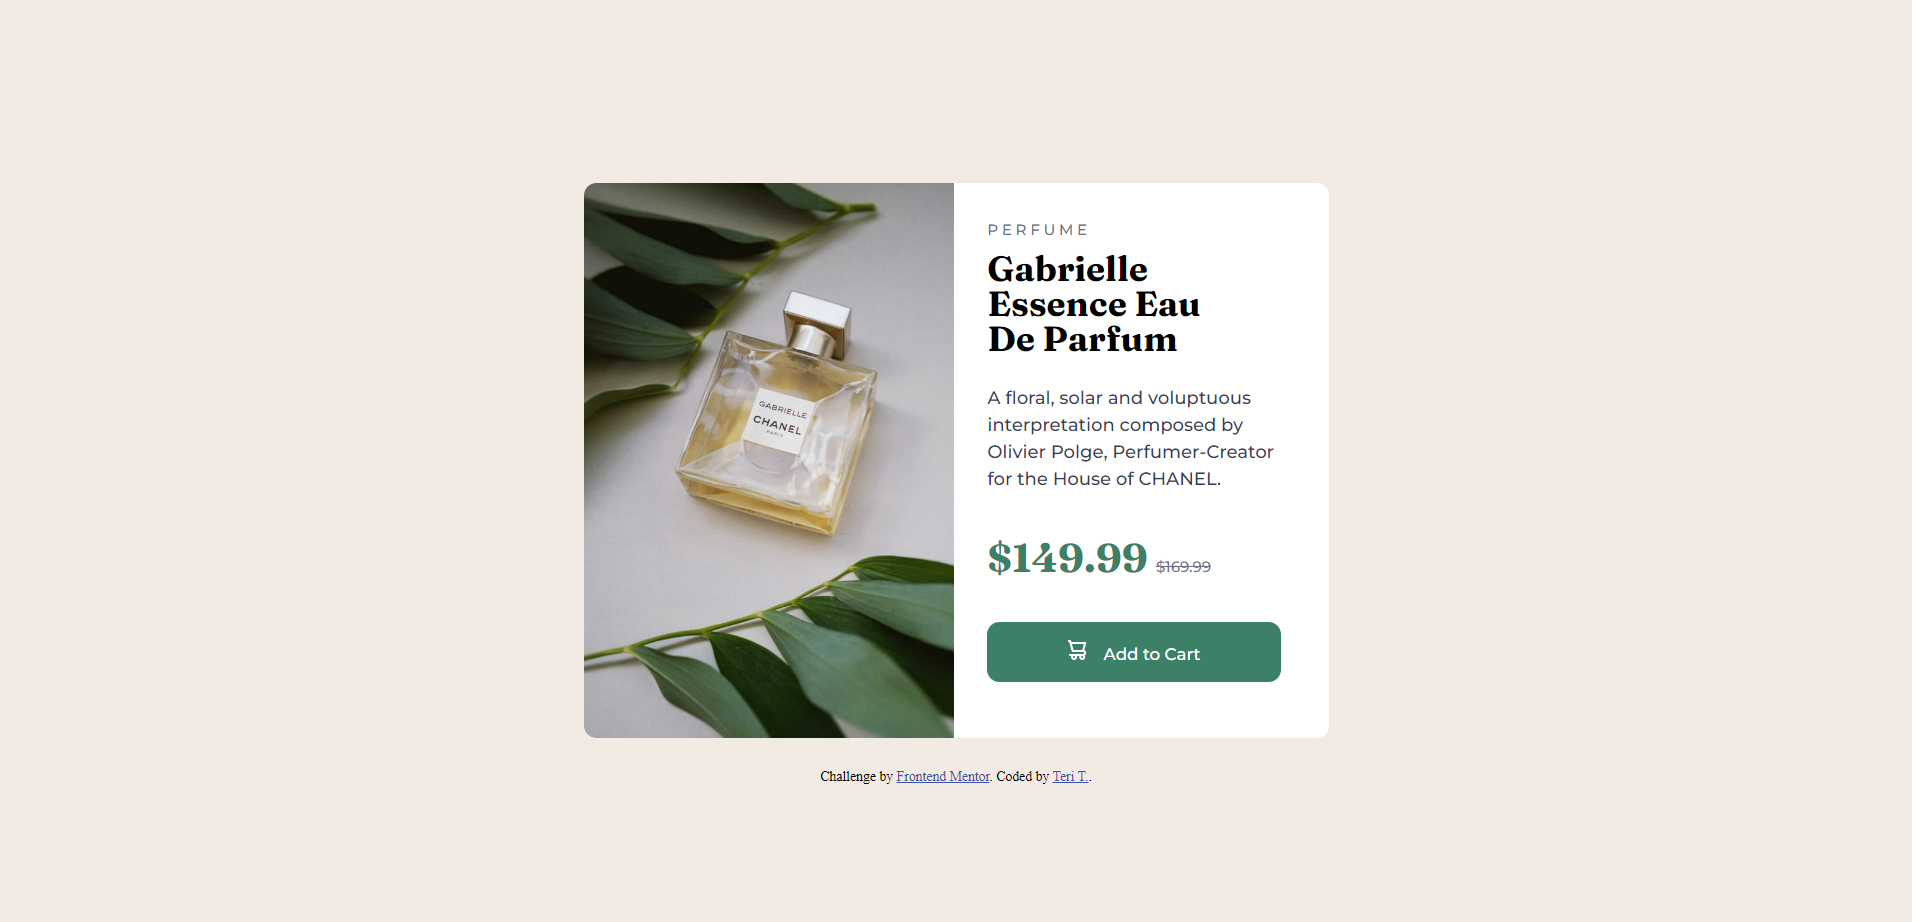
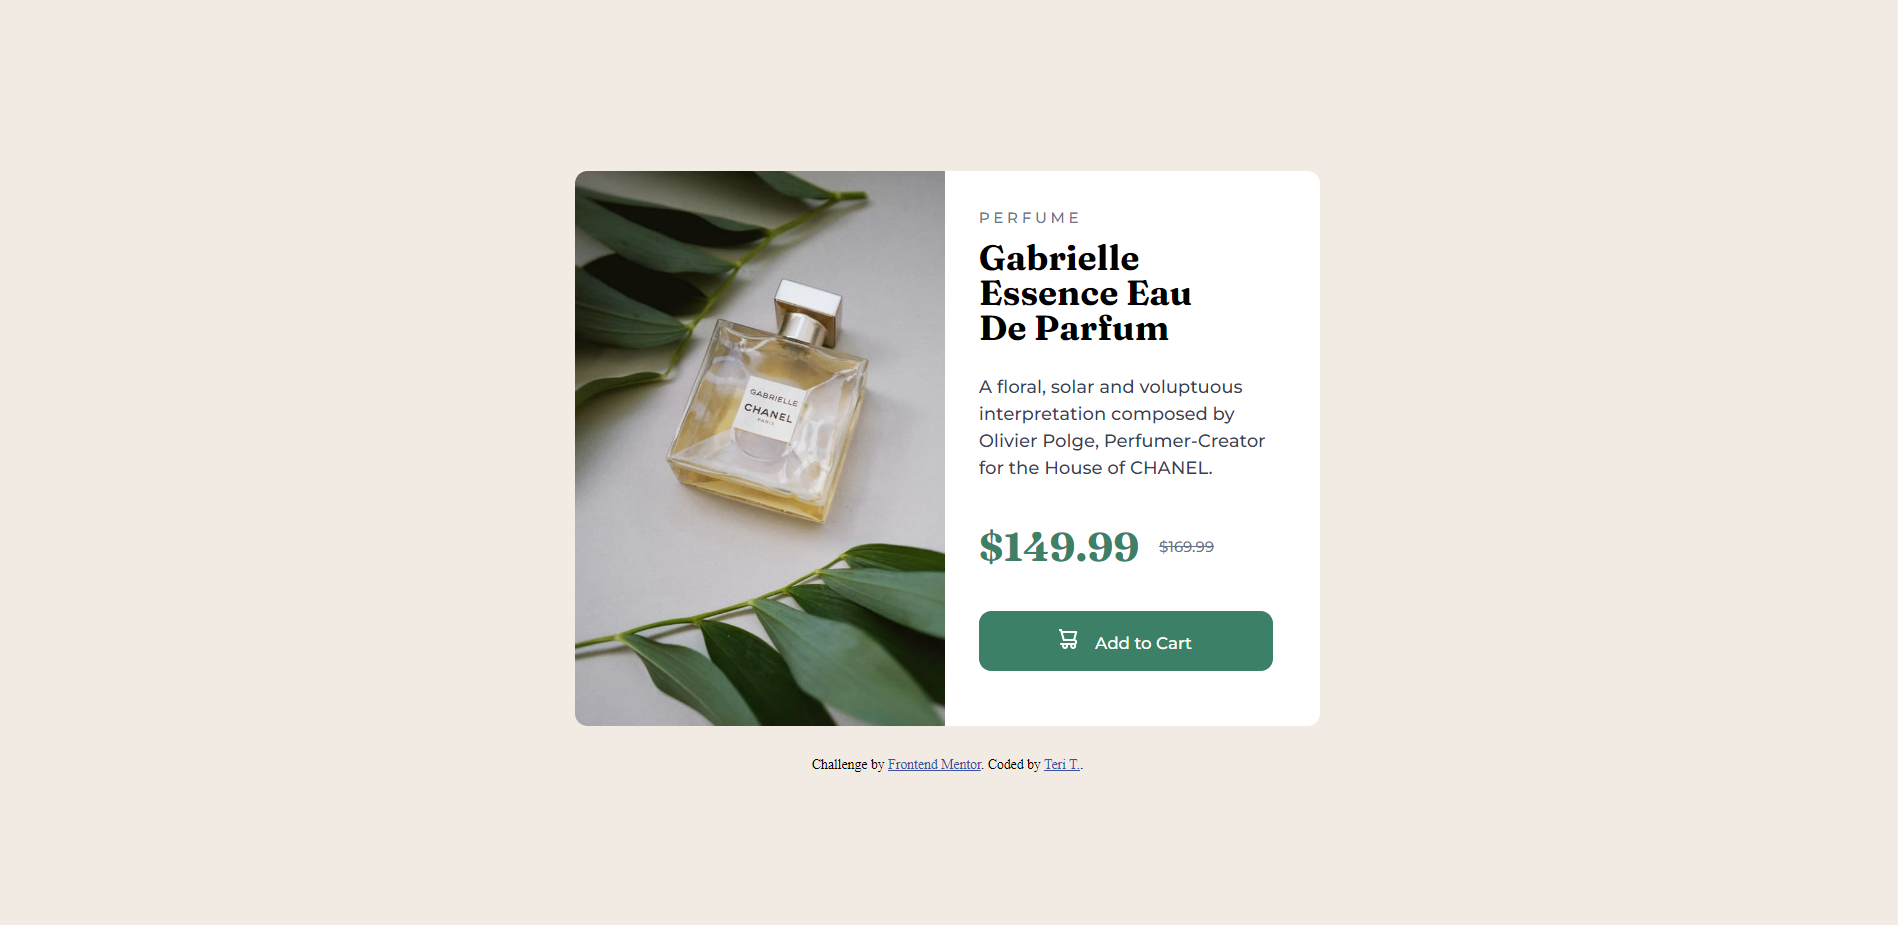
replace screenshot and update stylesheet

Changed region(s): [[0.2798, 0.1822, 0.715, 0.8503]]

diff --git a/style.css b/style.css
@@ -9,16 +9,17 @@
 
 body {
     background-color: hsl(30, 38%, 92%);
+    min-height: 100vh;
+    display: grid;
+    place-items: center;
 
 }
 
 .container {
-    margin: auto;
     display: flex;
     column-count: 2;
     width: 596px;
     background-color: white;
-    margin-top: 150px;
     border-radius: 10px;
     overflow: hidden;
 }
@@ -62,15 +63,17 @@ h1 {
 
 }
 
+
 .price {
 
-justify-content: space-between;
+justify-content: center;
 }
 
 .saleprice {
 font-family: 'Fraunces', serif;
 color:hsl(158, 36%, 37%);
 font-size: 2rem;
+display: flex; justify-content: flex-start; align-items: center; gap: 1rem;
 }
 
 .oldprice {
